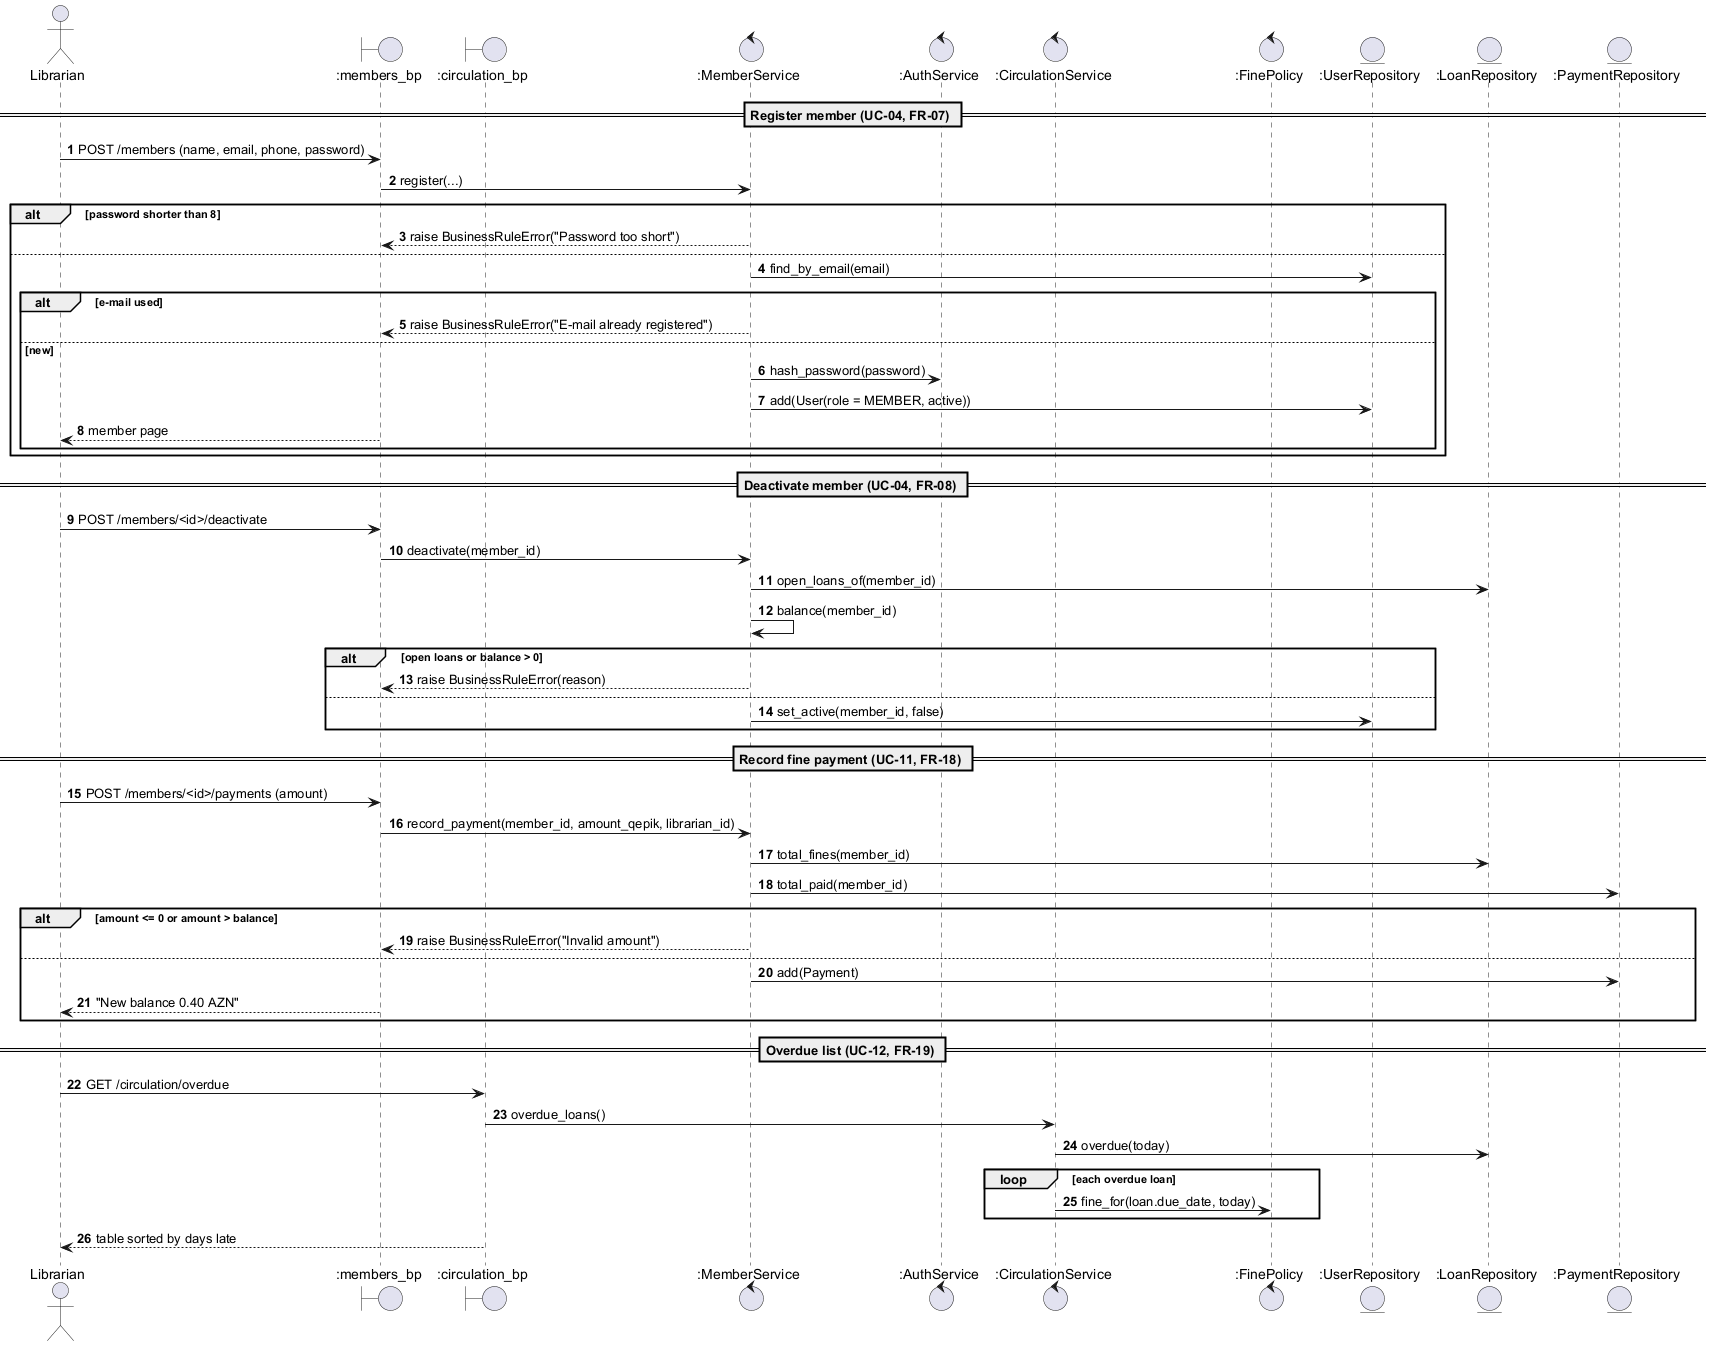
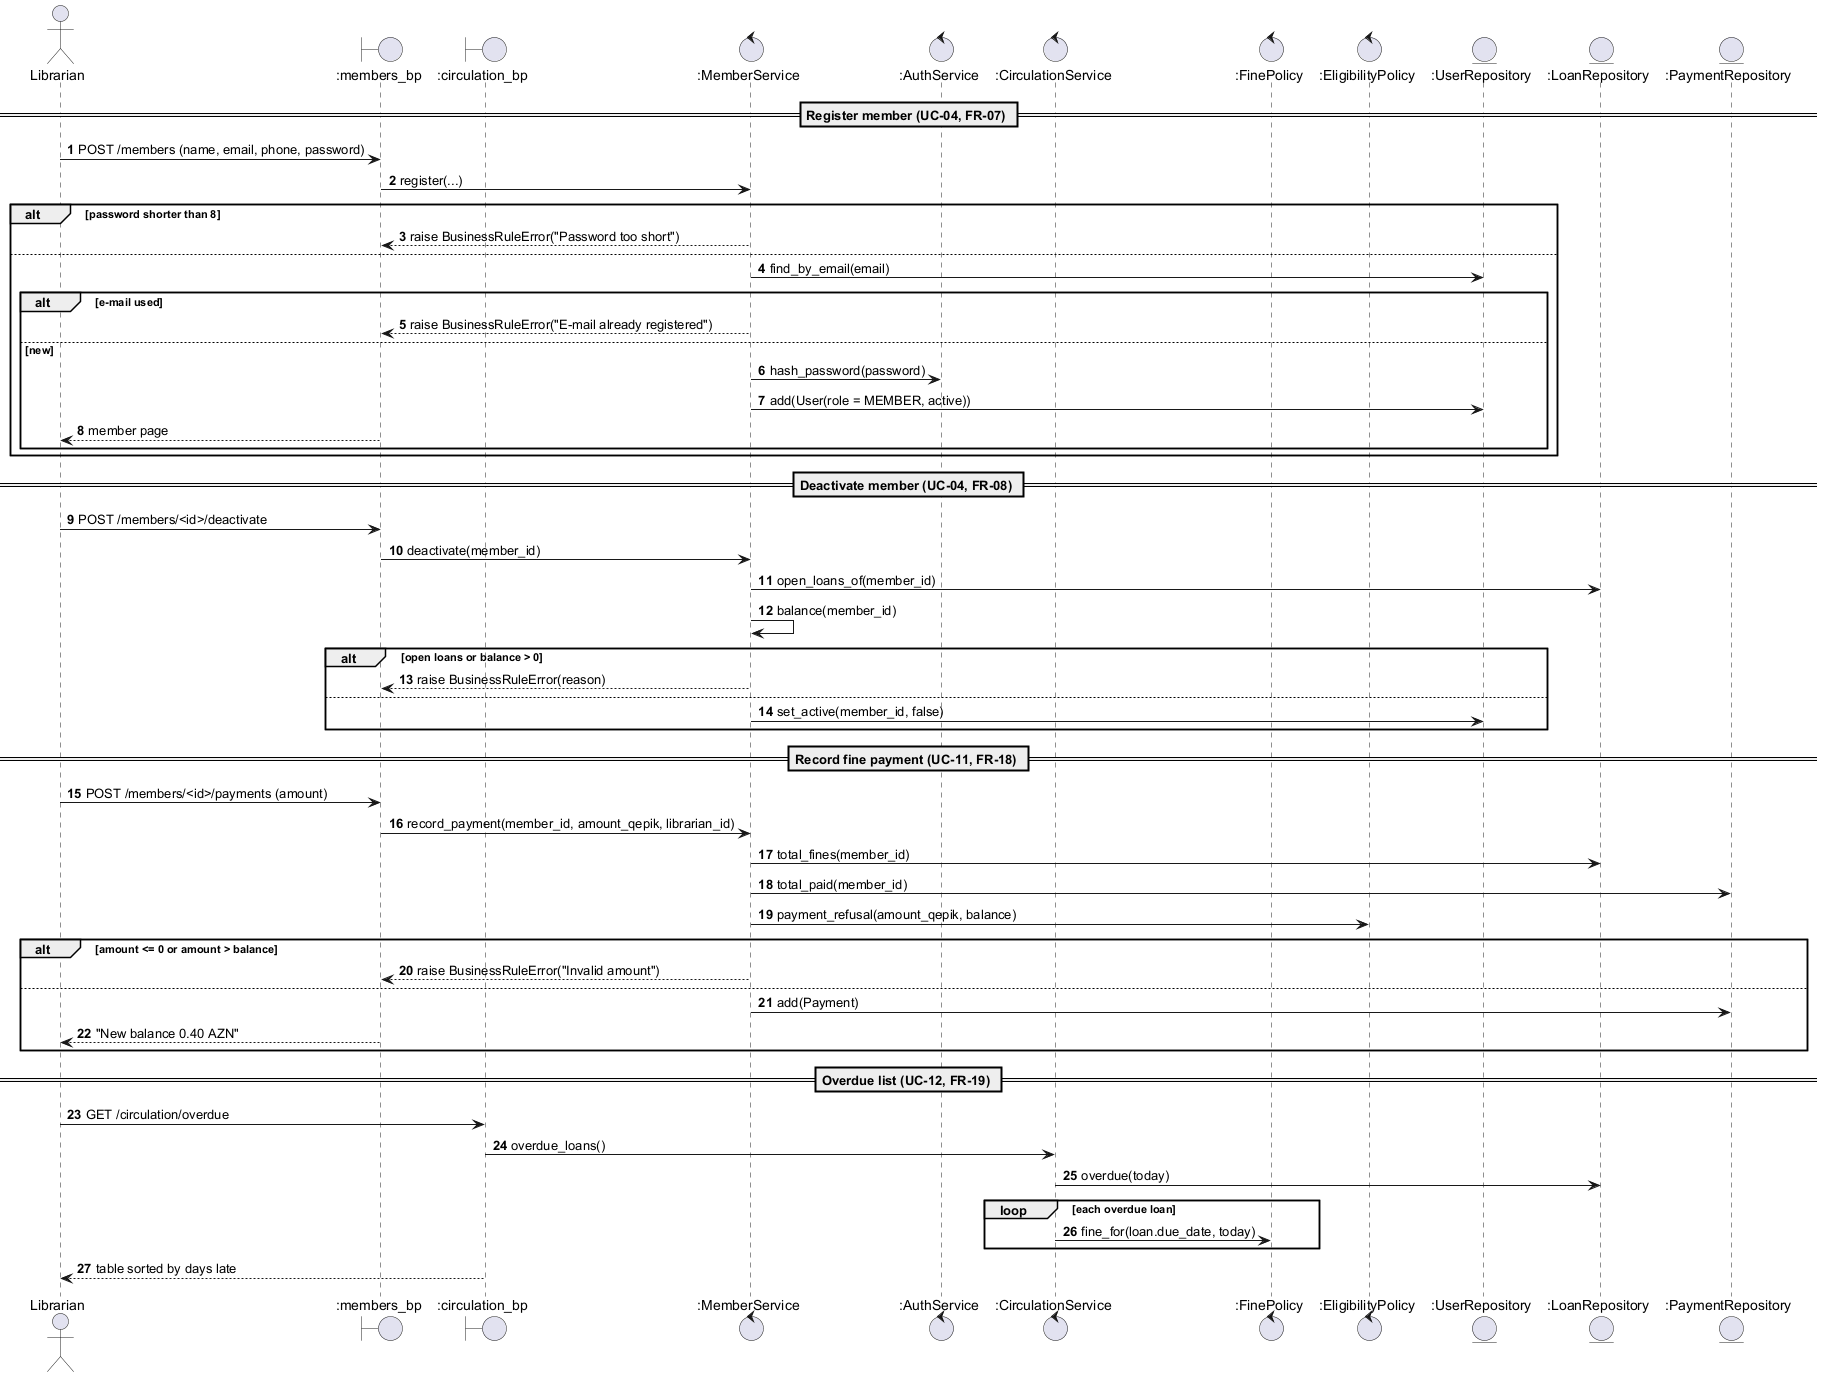
docs(models): v1.1 - extract pure EligibilityPolicy so decision rules are unit-testable

diff --git a/docs/models.md b/docs/models.md
@@ -3,9 +3,16 @@
 | | |
 |---|---|
 | **Author** | Ramil İmanov (group M666İ5) |
-| **Version** | 1.0 |
+| **Version** | 1.1 |
 | **Date** | 2026-11-15 |
 | **Based on** | Requirements Specification v1.1 |
+
+**Revision history**
+
+| Version | Change | Reason |
+|---|---|---|
+| 1.0 | First version. | — |
+| 1.1 | Added `EligibilityPolicy` (pure functions `checkout_refusal`, `renew_refusal`, `reservation_refusal`, `payment_refusal`); SD-01, SD-03, SD-04 and SD-07 now call it. | Found while writing the test plan: the decision-table rules were hidden inside services that need a database, so they could only be tested at integration level. As pure functions they can be unit-tested exhaustively. |
 
 All diagrams are written in PlantUML. The source files are in `docs/models/*.puml` and the exported images
 in `docs/models/img/`. To regenerate the images: `java -jar plantuml.jar -tpng -o img docs/models/*.puml`.
@@ -147,7 +154,9 @@ This is a historical fact, not a duplicate.
 ![Design class diagram – logic](models/img/design-class-logic.png)
 
 Flask blueprints only translate HTTP requests into service calls; all business rules live in the services.
-Patterns marked: **Service Layer** (services), **Strategy** (`Clock` with `SystemClock` and the test double
+Patterns marked: **Service Layer** (services), **Policy objects** (`FinePolicy` and `EligibilityPolicy` hold the
+decision rules as pure functions without database access, so every decision-table rule is unit-testable),
+**Strategy** (`Clock` with `SystemClock` and the test double
 `FixedClock`, needed to test date boundaries, A-10), **Application Factory** (`create_app`, which wires the
 services through constructor injection), and **Decorator** (`role_required`, FR-02). Rule values live in one
 frozen `Rules` object (Section 7 of the requirements).
